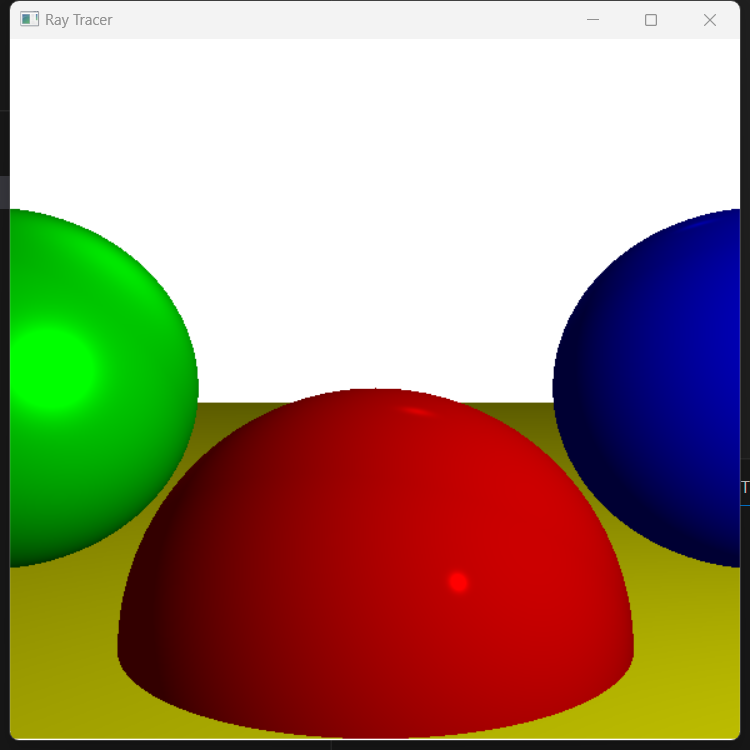
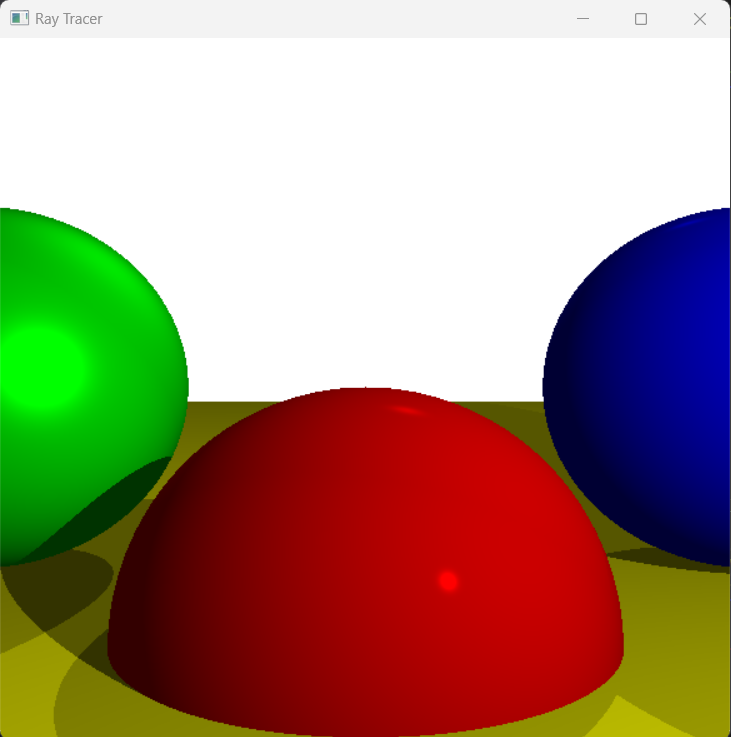
4.1 calculate shadow

diff --git a/src/canvas.c b/src/canvas.c
@@ -29,12 +29,47 @@ static Bool intersect_ray_sphere(vec3 camera_position, vec3 viewport, sphere *sp
     return True;
 }
 
+static Bool closest_intersection(canvas ctx, vec3 camera_position, vec3 viewport, f32 t_min, f32 t_max, f32 *out_closest_t, sphere **out_closest_sphere)
+{
+    f32 closest_t = FLT_MAX;
+    sphere *closest_sphere = 0;
+
+    for (i32 i = 0; i < ctx.sphere_size; i++)
+    {
+        f32 t1, t2 = 0;
+        sphere *sphere = &(*ctx.spheres)[i];
+        Bool res = intersect_ray_sphere(camera_position, viewport, sphere, &t1, &t2);
+        if (!res)
+            continue;
+        if (t1 > t_min && t1 < t_max && t1 < closest_t)
+        {
+            closest_t = t1;
+            closest_sphere = sphere;
+        }
+
+        if (t2 > t_min && t2 < t_max && t2 < closest_t)
+        {
+            closest_t = t2;
+            closest_sphere = sphere;
+        }
+    }
+    if (closest_sphere)
+    {
+        *out_closest_t = closest_t;
+        *out_closest_sphere = closest_sphere;
+        return True;
+    }
+    return False;
+}
+
 static f32 compute_lighting(canvas ctx, vec3 point, vec3 normal, vec3 view, f32 specular)
 {
     f32 intensity = 0.0f;
+    f32 t_min = 0.001f;
     for (i32 i = 0; i < ctx.light_size; i++)
     {
         light light = (*ctx.lights)[i];
+        f32 t_max = 0.0f;
         if (light.type == LIGHT_AMBIENT)
         {
             intensity += light.intensity;
@@ -43,9 +78,21 @@ static f32 compute_lighting(canvas ctx, vec3 point, vec3 normal, vec3 view, f32 
         {
             vec3 l_vec;
             if (light.type == LIGHT_POINT)
+            {
                 l_vec = vec3_sub(light.position, point);
+                t_max = 1.0;
+            }
             else
+            {
                 l_vec = light.direction;
+                t_max = FLT_MAX;
+            }
+            // calculate shadow
+            f32 closest_t = FLT_MAX;
+            sphere *closest_sphere = 0;
+            if (closest_intersection(ctx, point, l_vec, t_min, t_max, &closest_t, &closest_sphere))
+                continue;
+
             // calculate cos(a)
             f32 n_dot_l = vec3_dot(normal, l_vec);
             if (n_dot_l > 0)
@@ -65,31 +112,12 @@ static f32 compute_lighting(canvas ctx, vec3 point, vec3 normal, vec3 view, f32 
     return intensity;
 }
 
-static Bool trace_ray(canvas ctx, vec3 camera_position, vec3 viewport, i32 min, i32 max, color *out_color)
+static Bool trace_ray(canvas ctx, vec3 camera_position, vec3 viewport, f32 t_min, f32 t_max, color *out_color)
 {
     f32 closest_t = FLT_MAX;
     sphere *closest_sphere = 0;
 
-    for (i32 i = 0; i < ctx.sphere_size; i++)
-    {
-        f32 t1, t2 = 0;
-        sphere *sphere = &(*ctx.spheres)[i];
-        Bool res = intersect_ray_sphere(camera_position, viewport, sphere, &t1, &t2);
-        if (!res)
-            continue;
-        if (t1 > min && t1 < max && t1 < closest_t)
-        {
-            closest_t = t1;
-            closest_sphere = sphere;
-        }
-
-        if (t2 > min && t2 < max && t2 < closest_t)
-        {
-            closest_t = t2;
-            closest_sphere = sphere;
-        }
-    }
-    if (closest_sphere)
+    if (closest_intersection(ctx, camera_position, viewport, t_min, t_max, &closest_t, &closest_sphere))
     {
         vec3 intersection_point = vec3_add(camera_position, vec3_mul_scalar(viewport, closest_t));
         vec3 law = vec3_sub(intersection_point, closest_sphere->center);
@@ -109,7 +137,7 @@ void render_frame(canvas ctx)
         {
             vec3 viewport = canvas_to_viewport(ctx, x, y);
             color color = backgroud_color;
-            trace_ray(ctx, camera_position, viewport, 1, INF, &color);
+            trace_ray(ctx, camera_position, viewport, 1.0f, FLT_MAX, &color);
             ctx.put_pixel(CENTER_TO_ZERO_X(ctx.width, x), CENTER_TO_ZERO_Y(ctx.height, y), color.argb);
         }
     }
